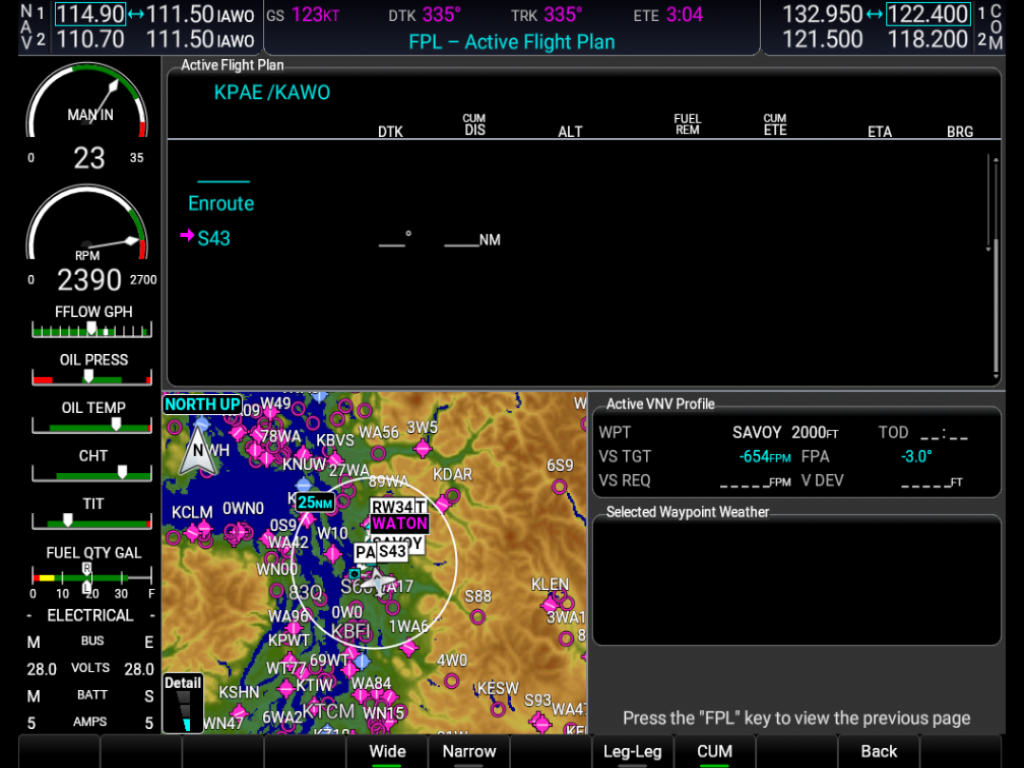
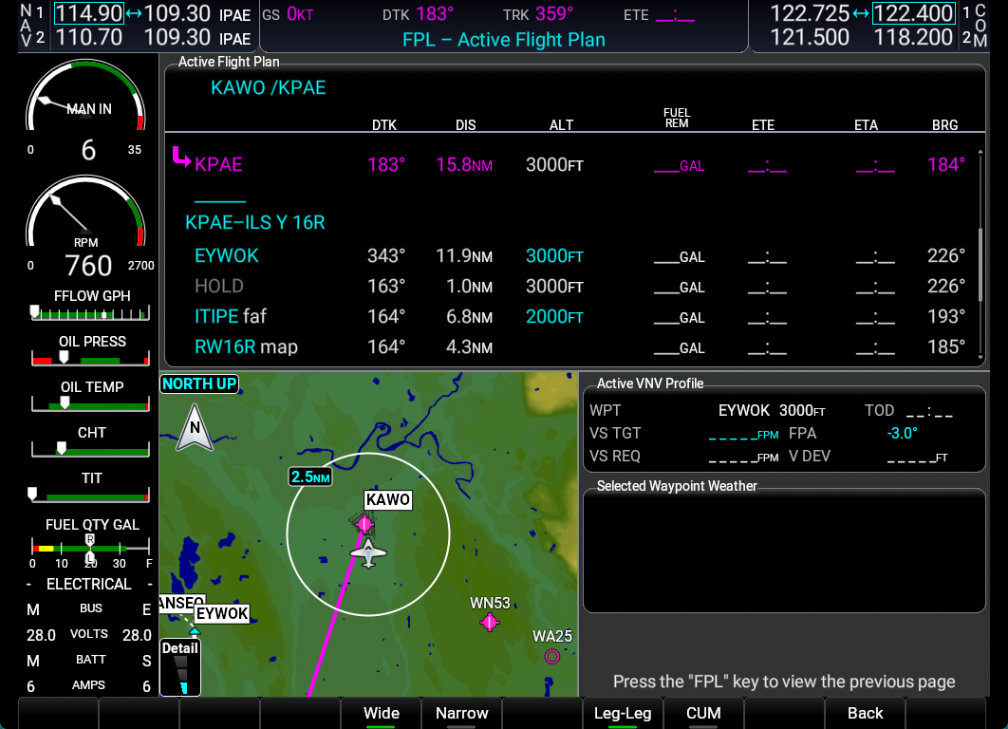
Fix MFD Wide FPL display
- Allow .ui-control-list and .ui-control-list-content to expand to full leg list height (height: auto) inside .mfd-fpln-container so scrolling in Wide FPL view no longer clips lower flight plan legs
- Hide duplicate inner scrollbar in Wide FPL mode
- Exclude Working Title's .hide-element class on .fix-container so hidden Direct-To/discontinuity/empty rows do not appear as blank rows
- Update Wide FPL screenshot in docs/screenshots/g1000-mfd-wide-fpl-view.png

diff --git a/wtg1000-nxi-enhancements/html_ui/WTG1000NxiEnhancements/wtg1000-nxi-enhancements.js b/wtg1000-nxi-enhancements/html_ui/WTG1000NxiEnhancements/wtg1000-nxi-enhancements.js
@@ -3684,8 +3684,10 @@
                 '.mfd-page.wt-fpl-wide-mode .mfd-fpln-container {',
                 '  width: 850px !important; height: 224px !important;',
                 '}',
-                '.mfd-page.wt-fpl-wide-mode .mfd-fpln-container > .ui-control-list { height: 100%; }',
-                '.mfd-page.wt-fpl-wide-mode .fix-container:not(.hidden-element) {',
+                '.mfd-page.wt-fpl-wide-mode .mfd-fpln-container > .ui-control-list { height: auto !important; }',
+                '.mfd-page.wt-fpl-wide-mode .mfd-fpln-container > .ui-control-list > .ui-control-list-content { height: auto !important; overflow: visible !important; }',
+                '.mfd-page.wt-fpl-wide-mode .mfd-fpln-container > .ui-control-list > .scroll-bar { display: none !important; }',
+                '.mfd-page.wt-fpl-wide-mode .fix-container:not(.hide-element):not(.hidden-element) {',
                 '  display: flex; align-items: center; width: 840px; height: 32px; line-height: 32px;',
                 '}',
                 '.mfd-page.wt-fpl-wide-mode .fix-container > div:first-child { width: 185px; flex: 0 0 185px; overflow: hidden; }',

diff --git a/README.md b/README.md
@@ -2,15 +2,15 @@
 
 **Standalone Community Package:** `wtg1000-nxi-enhancements`  
 **Release Archive:** `1-G1000NXi-Avionics-Enhancements-v2.0.0.zip`  
-**Dependencies:** None (works standalone on every MSFS 2020 G1000 NXi aircraft â€” Cessna 172S, Carenado CT182T, C208B, G36, G58, DA40NG, DA62, SR22, etc.)  
-**Simulator Compatibility:** Microsoft Flight Simulator 2020 (SU15+ / Working Title G1000 NXi) â€” zero Official files modified.
+**Dependencies:** None (works standalone on every MSFS 2020 G1000 NXi aircraft — Cessna 172S, Carenado CT182T, C208B, G36, G58, DA40NG, DA62, SR22, etc.)  
+**Simulator Compatibility:** Microsoft Flight Simulator 2020 (SU15+ / Working Title G1000 NXi) — zero Official files modified.
 
 ---
 
 ## In-Game Panel Screenshots
 
 ### 1. Missed-Approach `Load?` Continuity & Active Hold Preservation
-Load a new approach (`PROC â†’ Select Approach â†’ Load?`) while flying inbound to or holding at the final missed-approach fix without dropping the active leg, disturbing LNAV, or triggering a course jump.
+Load a new approach (`PROC → Select Approach → Load?`) while flying inbound to or holding at the final missed-approach fix without dropping the active leg, disturbing LNAV, or triggering a course jump.
 
 ![Missed-Approach Load Continuity on MFD](docs/screenshots/g1000-mfd-missed-approach-load.png)
 
@@ -24,12 +24,12 @@ Turning the small FMS knob counter-clockwise on any waypoint input opens the rea
 
 ![CCW Small FMS Knob Waypoint Submenu](docs/screenshots/g1000-mfd-ccw-waypoint-submenu.png)
 
-### 4. `Aux â€“ GPS Status` Page (Constellation Skyview, WAAS & RAIM)
+### 4. `Aux – GPS Status` Page (Constellation Skyview, WAAS & RAIM)
 Live North-Up satellite skyview, `GPS1`/`GPS2` receiver toggle, WAAS SBAS PRNs (`131`, `135`, `138`) with differential `D` bars, EPU/HDOP/HFOM/VFOM telemetry, and interactive **RAIM Prediction**.
 
 ![Aux GPS Status Page](docs/screenshots/g1000-mfd-aux-gps-status.png)
 
-### 5. `Aux â€“ System Status` Page (21 G1000 LRUs & Dynamic Airframe Info)
+### 5. `Aux – System Status` Page (21 G1000 LRUs & Dynamic Airframe Info)
 Displays live operational status for all 21 G1000 LRUs (`COM1/2`, `GDC1`, `GDL69`, `GDU1/2`, `GEA1`, `GIA1/2`, `GMA1`, `GMU1`, `GPS1/2`, `GRS1`, `GS1/2`, `GSA` servos, `GTS800`, `GTX1`), dynamic airframe identification, software versions, and active navigation database cycle.
 
 ![Aux System Status Page](docs/screenshots/g1000-mfd-aux-system-status.png)
@@ -40,13 +40,13 @@ Authentic Red-X invalidations (shown below: **AHRS1 + ADC1 Partial-Panel** with 
 ![PFD Partial-Panel AHRS and ADC Failures](docs/screenshots/g1000-pfd-partial-panel-failures.png)
 
 ### 7. Approach `ALT` Outer-Knob Stepdown & Minimums Snapping (`1260` FT Bug)
-Turning the outer `ALT` knob counter-clockwise on an approach snaps the cyan Selected Altitude bug cleanly through published stepdowns (`2000 â†’ 1700`) and directly onto non-100-ft minimums (**`1260`** matching `BARO MIN 1260FT`, impossible on stock WTG1000 which is locked to 100-ft increments).
+Turning the outer `ALT` knob counter-clockwise on an approach snaps the cyan Selected Altitude bug cleanly through published stepdowns (`2000 → 1700`) and directly onto non-100-ft minimums (**`1260`** matching `BARO MIN 1260FT`, impossible on stock WTG1000 which is locked to 100-ft increments).
 
 ![PFD Selected Altitude Bug Snapped to 1260FT Minimums](docs/screenshots/g1000-pfd-flight-director-minimums.png)
 
 ---
 
-## Release Notes â€” `v2.0.0` (`Build 800`)
+## Release Notes — `v2.0.0` (`Build 800`)
 
 ### What's New in `v2.0.0`
 - **Clean Modular Architecture**: Separated core G1000 NXi avionics enhancements (`wtg1000-nxi-enhancements`) from US Procedure Fixes (Project 2) and C172S Flight Model (Project 3) so users can install any component independently.
@@ -57,13 +57,13 @@ Turning the outer `ALT` knob counter-clockwise on an approach snaps the cyan Sel
 - **Bidirectional FMS Sync Bridge**: Allows external training apps (Project 4) to read the active G1000 flight plan or push new Victor-airway / Direct-To routes straight into the live G1000 FMS.
 
 ### Core Real-World G1000 NXi Avionics Fixes Included
-- **Missed-Approach `Load?` Continuity**: `PROC â†’ Select Approach â†’ Load?` while inbound to or holding at the final missed-approach fix preserves the active missed leg and hold with zero LNAV jump or bank transient.
+- **Missed-Approach `Load?` Continuity**: `PROC → Select Approach → Load?` while inbound to or holding at the final missed-approach fix preserves the active missed leg and hold with zero LNAV jump or bank transient.
 - **CCW Small FMS Knob 4-Tab Waypoint Submenu**: Instant access to `Flight Plan`, `Nearest`, `Recent`, and `User` waypoints on every ident input field.
 - **MFD `Wide` / `Narrow` FPL View + `CUM` / `Leg-Leg`**: Full `FUEL REM`, `ETE`, `ETA`, and `BRG` columns via the `View` softkey.
-- **`Aux â€“ GPS Status` & `Aux â€“ System Status`**: Restores both missing MFD AUX pages with live telemetry and LRU health.
+- **`Aux – GPS Status` & `Aux – System Status`**: Restores both missing MFD AUX pages with live telemetry and LRU health.
 - **Approach `ALT` Outer Knob Snapping** (*Garmin Pilot's Guide* p. 49): Snaps smoothly through published approach stepdown altitudes and minimums.
-- **Seamless ILS/LOC Automatic `GPS â†’ LOC` (`Nav-to-Nav`) + `GS` Capture** (*Pilot's Guide* pp. 352, 360â€“363): Fixes cases where stock WTG1000 failed to auto-switch CDI from GPS to LOC or missed glideslope capture on localizer intercept.
-- **14 Pilot Usability Enhancements**: `ACT Leg` softkey, Along-Track Offset (`ATK OFS`), Direct-To VNV offset, Facility Name/City search, `Hold at Present Position (PPOS)`, Stored Flight Plan Catalog, User Waypoints synced PFDâ†”MFD, Nearest Frequencies, Map Pointer snap/measure, Temperature Compensation (`Temp Comp`), Closest Point of FPL, and 2-second `121.500 MHz` emergency COM hold.
+- **Seamless ILS/LOC Automatic `GPS → LOC` (`Nav-to-Nav`) + `GS` Capture** (*Pilot's Guide* pp. 352, 360–363): Fixes cases where stock WTG1000 failed to auto-switch CDI from GPS to LOC or missed glideslope capture on localizer intercept.
+- **14 Pilot Usability Enhancements**: `ACT Leg` softkey, Along-Track Offset (`ATK OFS`), Direct-To VNV offset, Facility Name/City search, `Hold at Present Position (PPOS)`, Stored Flight Plan Catalog, User Waypoints synced PFD↔MFD, Nearest Frequencies, Map Pointer snap/measure, Temperature Compensation (`Temp Comp`), Closest Point of FPL, and 2-second `121.500 MHz` emergency COM hold.
 
 ---
 
@@ -71,7 +71,7 @@ Turning the outer `ALT` knob counter-clockwise on an approach snaps the cyan Sel
 
 You do **not** need any installer executable to install this mod. It is a standard MSFS 2020 Community add-on package.
 
-### Step 1 â€” Locate Your MSFS 2020 `Community` Folder
+### Step 1 — Locate Your MSFS 2020 `Community` Folder
 Choose the path matching your MSFS 2020 edition:
 
 - **Steam Edition (Default):**
@@ -96,7 +96,7 @@ Choose the path matching your MSFS 2020 edition:
   ```
   Your `Community` folder is `<InstalledPackagesPath>\Community` (e.g., `D:\MSFS\Packages\Community`).
 
-### Step 2 â€” Extract & Copy the Package Folder
+### Step 2 — Extract & Copy the Package Folder
 1. **Close Microsoft Flight Simulator** if it is currently running.
 2. Download `1-G1000NXi-Avionics-Enhancements-v2.0.0.zip` from GitHub Releases and extract it.
 3. Copy the **`wtg1000-nxi-enhancements`** folder directly into your `Community` folder.
@@ -105,19 +105,19 @@ Choose the path matching your MSFS 2020 edition:
 > **Avoid Nested Folders!** After copying, verify that `manifest.json` sits directly inside `Community\wtg1000-nxi-enhancements\`:
 > ```text
 > Community\
-> â””â”€â”€ wtg1000-nxi-enhancements\
->     â”œâ”€â”€ layout.json
->     â”œâ”€â”€ manifest.json
->     â””â”€â”€ html_ui\
->         â”œâ”€â”€ Plugins\wtg1000-nxi-enhancements.xml
->         â””â”€â”€ WTG1000NxiEnhancements\wtg1000-nxi-enhancements.js
+> └── wtg1000-nxi-enhancements\
+>     ├── layout.json
+>     ├── manifest.json
+>     └── html_ui\
+>         ├── Plugins\wtg1000-nxi-enhancements.xml
+>         └── WTG1000NxiEnhancements\wtg1000-nxi-enhancements.js
 > ```
 > If you accidentally end up with `Community\1-G1000NXi-Avionics-Enhancements-v2.0.0\wtg1000-nxi-enhancements\`, MSFS will **not** load the package. Move the inner `wtg1000-nxi-enhancements` folder up one level.
 
-### Step 3 â€” Verify Inside MSFS 2020
+### Step 3 — Verify Inside MSFS 2020
 1. Launch MSFS 2020 and load into any G1000 NXi aircraft (e.g., Cessna 172 Skyhawk G1000).
 2. On the MFD, press **`FPL`** and confirm the **`View`** and **`ATK OFS`** softkeys are active along the bottom bezel.
-3. Rotate the **Large FMS Knob** to the **`AUX`** page group and rotate the **Small FMS Knob** to verify **`Aux â€“ GPS Status`** and **`Aux â€“ System Status`** appear.
+3. Rotate the **Large FMS Knob** to the **`AUX`** page group and rotate the **Small FMS Knob** to verify **`Aux – GPS Status`** and **`Aux – System Status`** appear.
 
 ### Uninstalling
 1. Close MSFS 2020.
